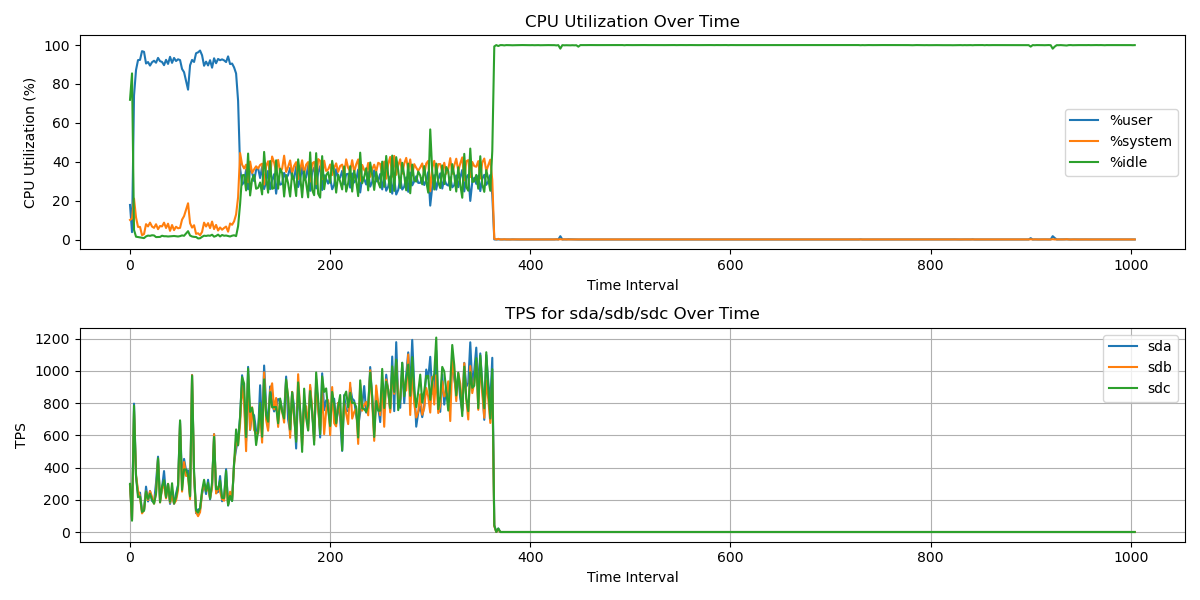
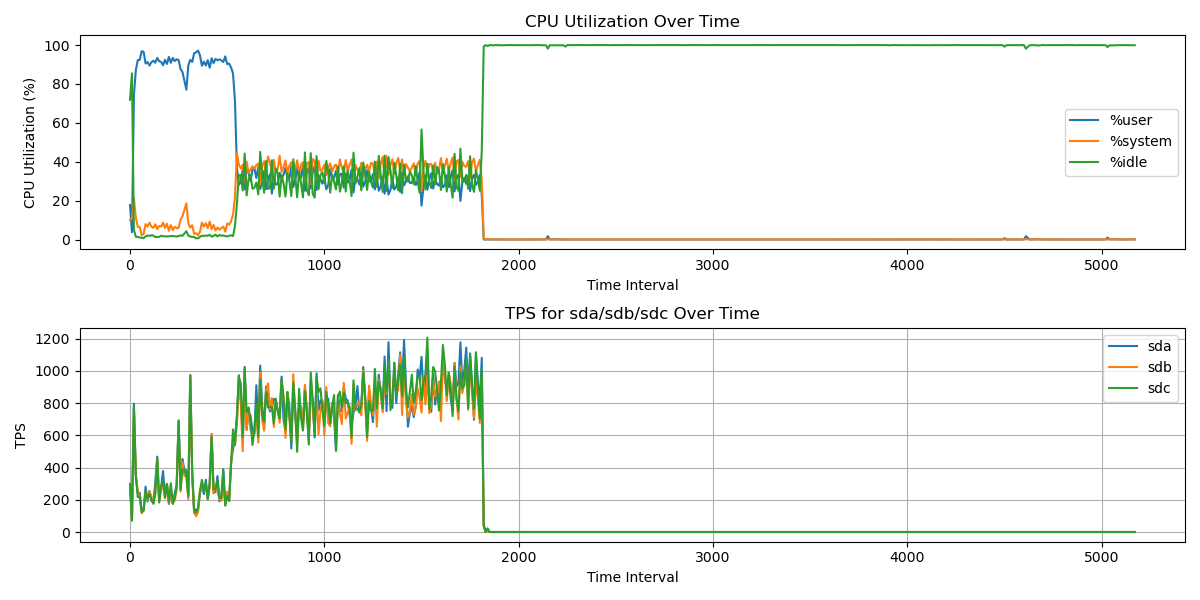
>

diff --git a/postgres-with-zfs-on-docker-27-02-2025-remote-client/default-zfs/process_outputs.py b/postgres-with-zfs-on-docker-27-02-2025-remote-client/default-zfs/process_outputs.py
@@ -60,7 +60,7 @@ def main():
     cpu_system = [entry["%system"] for entry in cpu_data]
     cpu_idle = [entry["%idle"] for entry in cpu_data]
     time_intervals = list(range(1, len(cpu_user) + 1))
-    time_intervals_text = list(range(0, len(cpu_user)*2, 2))
+    time_intervals_text = list(range(0, len(cpu_user)*10, 10))
     
 
     # Extract TPS data for sda, sdb, and sdc
